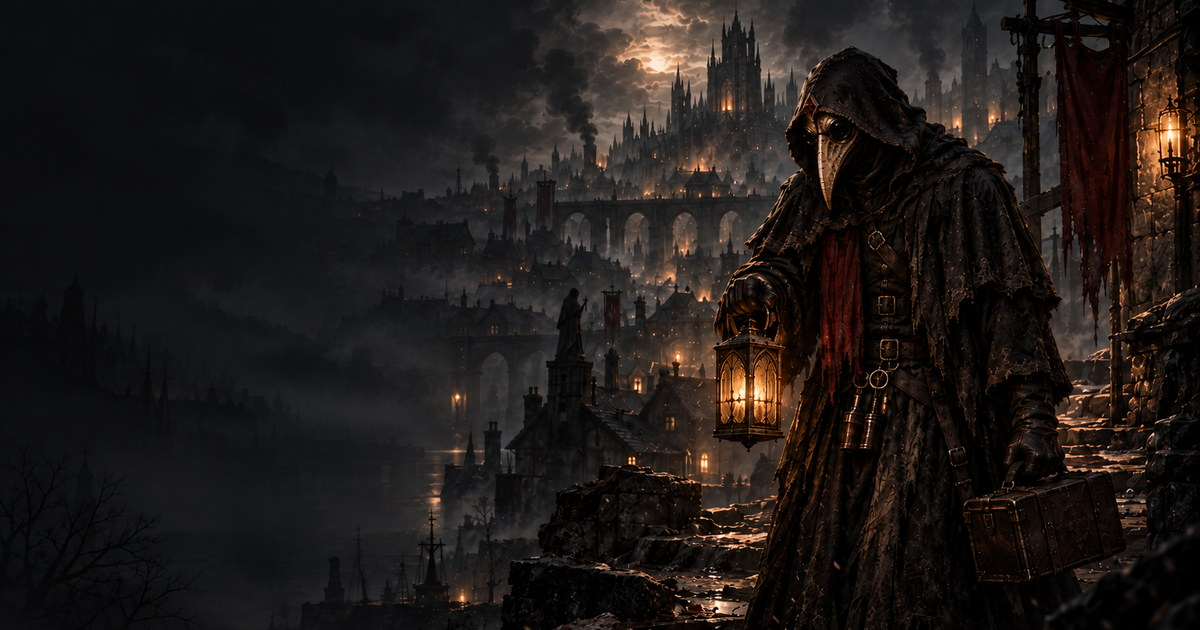
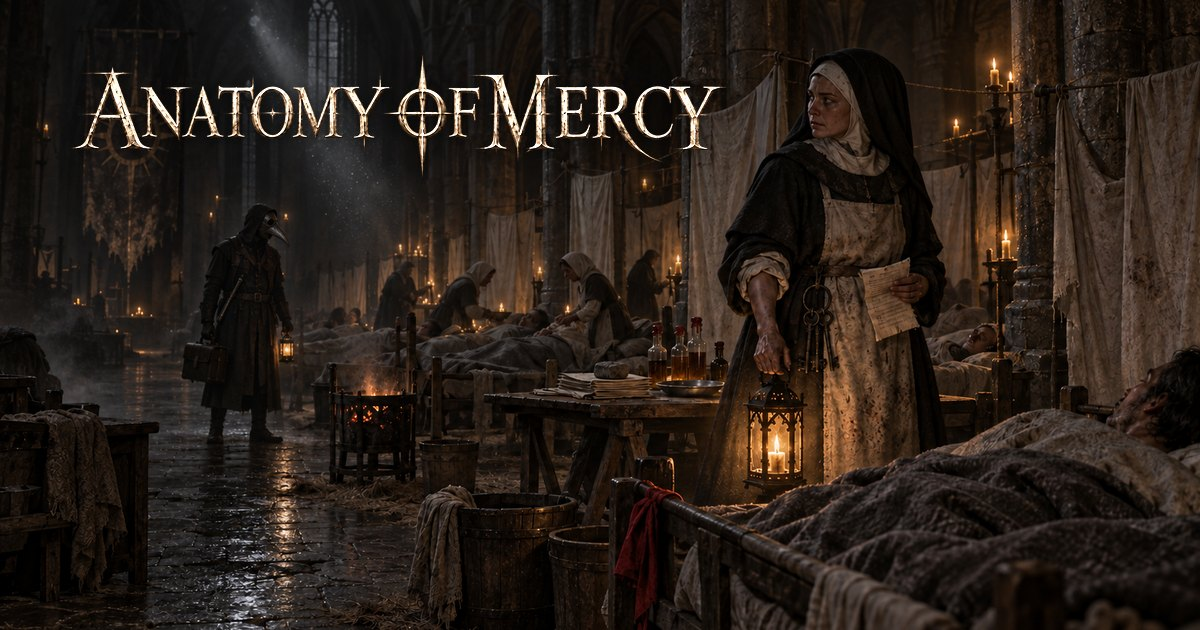
Replace the link preview with a dedicated composite image

diff --git a/ASSETS.md b/ASSETS.md
@@ -49,13 +49,17 @@ and too small for dense displays.
 
 | Website asset | Source filename | Size | Purpose |
 |---|---|---|---|
-| `assets/images/social/og-1200x630.jpg` | `AoM-hero.png` | 1200 x 630 | Link preview. Interim crop of the hero artwork. |
+| `assets/images/social/og-1200x630.jpg` | `AoM-web-og.png` + `AoM-title.png` | 1200 x 630 | Link preview. Artwork cropped to 1.9:1 with the wordmark composited onto it. |
+
+The link preview is a composite, not a plain resize, so the recipe lives with
+the source material in `Images\Narzędzia\zloz-og.py`. It crops the 16:9 artwork,
+lifts the wordmark brightness and lays a soft halo under the letters. The
+wordmark's own ink measures 123 of 255, which on this artwork gave a contrast of
+4.13 to 1 and effectively disappeared; the composite measures 7.04 to 1.
 
 ## Missing assets
 
-| Asset | Size | Needed for |
-|---|---|---|
-| Dedicated social image | 1200 x 630 | Replacing the interim hero crop, with dark space on the left for the wordmark |
+Nothing outstanding.
 
 A separate 4:5 hero for narrow viewports was considered and dropped. The
 landscape artwork was reviewed on a phone and the crop holds, so the extra
